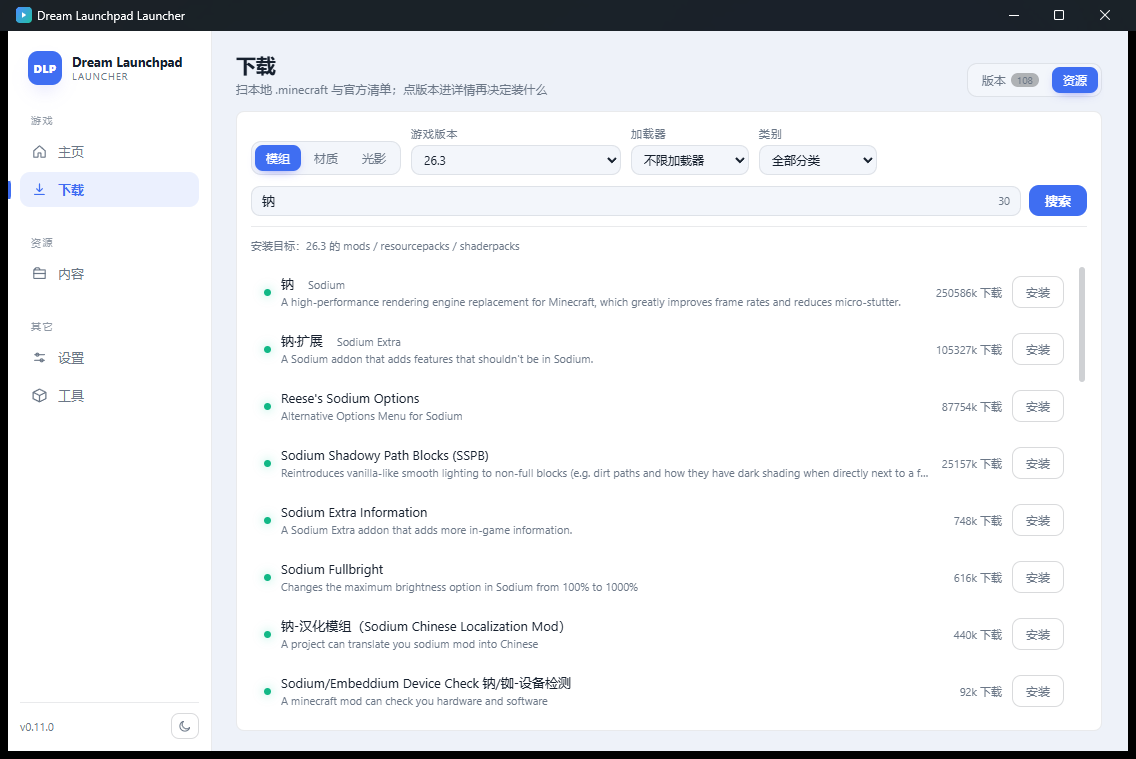
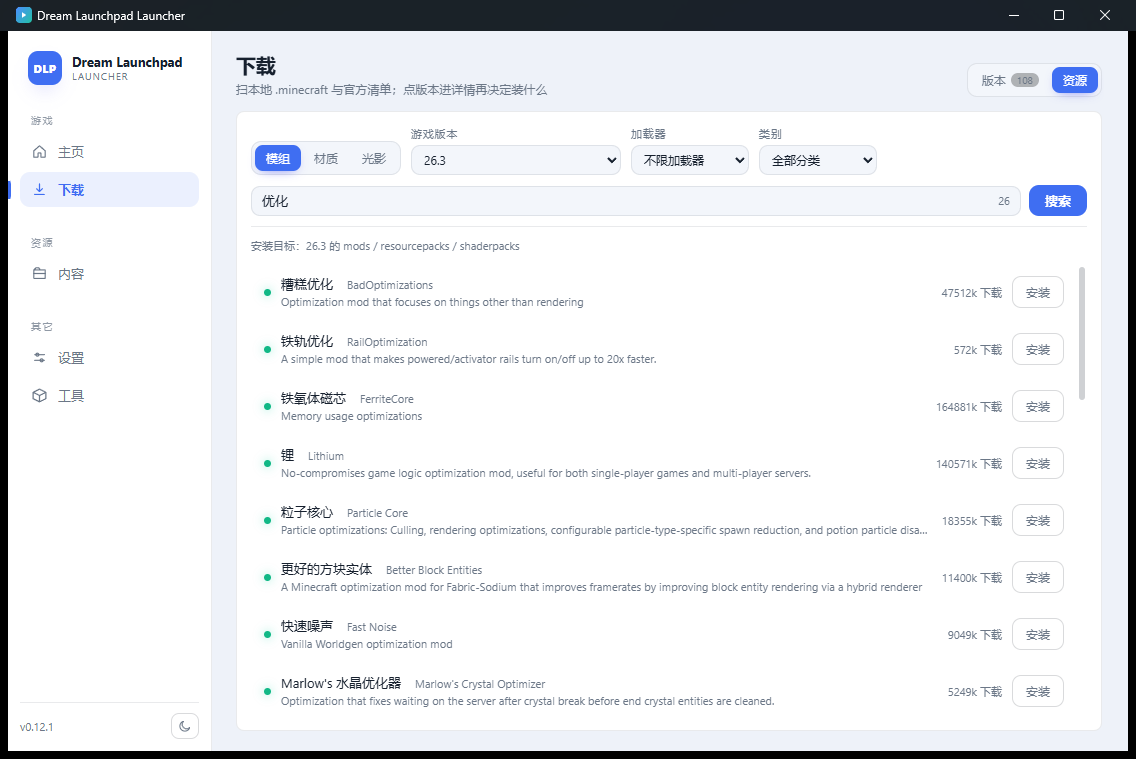
fix: 模组中文名补齐词级拼装与 CamelCase 拆词（0.12.1）

diff --git a/src/market_zh.rs b/src/market_zh.rs
@@ -89,6 +89,249 @@ const NAMES: &[(&str, &str)] = &[
     ("lightmatica", "投影辅助"),
 ];
 
+
+/// 词级术语表：给精确表里没有的项目「拼」出中文名。
+///
+/// 键是小写英文单词（或短语），值是中文；未收录的词原样保留，所以结果可能是中英混排。
+const TERMS: &[(&str, &str)] = &[
+    // 通用后缀 / 修饰
+    ("extra", "扩展"),
+    ("options", "选项"),
+    ("settings", "设置"),
+    ("config", "配置"),
+    ("configuration", "配置"),
+    ("api", "API"),
+    ("lib", "库"),
+    ("library", "库"),
+    ("core", "核心"),
+    ("utils", "工具"),
+    ("utility", "实用工具"),
+    ("tools", "工具"),
+    ("client", "客户端"),
+    ("server", "服务器"),
+    ("mod", "模组"),
+    ("mods", "模组"),
+    ("plus", "扩展"),
+    ("expanded", "扩展"),
+    ("better", "更好的"),
+    ("improved", "改进的"),
+    ("enhanced", "增强"),
+    ("advanced", "高级"),
+    ("ultimate", "终极"),
+    ("simple", "简单"),
+    ("easy", "简易"),
+    ("fast", "快速"),
+    ("quick", "快捷"),
+    ("faster", "更快"),
+    ("smooth", "平滑"),
+    ("modern", "现代"),
+    ("classic", "经典"),
+    ("legacy", "经典版"),
+    ("lite", "精简版"),
+    ("mini", "迷你"),
+    ("reloaded", "重载版"),
+    ("remastered", "重制版"),
+    ("reimagined", "重制版"),
+    ("fixed", "修复版"),
+    ("fix", "修复"),
+    ("compat", "兼容"),
+    ("compatibility", "兼容"),
+    ("integration", "联动"),
+    ("addon", "附加"),
+    ("addons", "附加"),
+    ("edition", "版"),
+    ("pack", "包"),
+    ("resource pack", "材质包"),
+    // 画面 / 性能
+    ("performance", "性能"),
+    ("optimization", "优化"),
+    ("optimizations", "优化"),
+    ("optimized", "优化"),
+    ("fps", "帧率"),
+    ("render", "渲染"),
+    ("rendering", "渲染"),
+    ("graphics", "画面"),
+    ("visual", "视觉"),
+    ("visuals", "视觉"),
+    ("visual", "视觉"),
+    ("effects", "效果"),
+    ("effect", "效果"),
+    ("lighting", "光照"),
+    ("light", "光照"),
+    ("shadow", "阴影"),
+    ("shadowy", "阴影"),
+    ("shadows", "阴影"),
+    ("reflection", "反射"),
+    ("reflections", "反射"),
+    ("bloom", "泛光"),
+    ("sky", "天空"),
+    ("clouds", "云"),
+    ("fog", "雾"),
+    ("stars", "星空"),
+    ("shader", "光影"),
+    ("shaders", "光影"),
+    ("texture", "材质"),
+    ("textures", "材质"),
+    ("animation", "动画"),
+    ("animations", "动画"),
+    ("model", "模型"),
+    ("models", "模型"),
+    ("particles", "粒子"),
+    ("entity", "实体"),
+    ("entities", "实体"),
+    ("culling", "剔除"),
+    ("occlusion", "遮挡"),
+    ("zoom", "缩放"),
+    ("screenshot", "截图"),
+    ("replay", "回放"),
+    // 玩法
+    ("world", "世界"),
+    ("worldgen", "世界生成"),
+    ("generation", "生成"),
+    ("terrain", "地形"),
+    ("biome", "生物群系"),
+    ("biomes", "生物群系"),
+    ("structure", "结构"),
+    ("structures", "结构"),
+    ("dungeon", "地牢"),
+    ("dimension", "维度"),
+    ("dimensions", "维度"),
+    ("cave", "洞穴"),
+    ("caves", "洞穴"),
+    ("ore", "矿石"),
+    ("ores", "矿石"),
+    ("mining", "挖矿"),
+    ("farming", "农业"),
+    ("food", "食物"),
+    ("cooking", "烹饪"),
+    ("animal", "动物"),
+    ("animals", "动物"),
+    ("mob", "生物"),
+    ("mobs", "生物"),
+    ("monster", "怪物"),
+    ("boss", "首领"),
+    ("weapon", "武器"),
+    ("weapons", "武器"),
+    ("armor", "护甲"),
+    ("equipment", "装备"),
+    ("enchant", "附魔"),
+    ("enchanting", "附魔"),
+    ("enchantments", "附魔"),
+    ("magic", "魔法"),
+    ("spell", "法术"),
+    ("spells", "法术"),
+    ("technology", "科技"),
+    ("tech", "科技"),
+    ("machine", "机器"),
+    ("machines", "机器"),
+    ("energy", "能源"),
+    ("power", "能量"),
+    ("pipe", "管道"),
+    ("pipes", "管道"),
+    ("fluid", "流体"),
+    ("fluids", "流体"),
+    ("storage", "存储"),
+    ("backpack", "背包"),
+    ("backpacks", "背包"),
+    ("inventory", "背包"),
+    ("quest", "任务"),
+    ("quests", "任务"),
+    ("map", "地图"),
+    ("maps", "地图"),
+    ("minimap", "小地图"),
+    ("waypoint", "路径点"),
+    ("waypoints", "路径点"),
+    ("teleport", "传送"),
+    ("spawn", "出生点"),
+    ("seed", "种子"),
+    ("chunk", "区块"),
+    ("chunks", "区块"),
+    ("block", "方块"),
+    ("blocks", "方块"),
+    ("item", "物品"),
+    ("items", "物品"),
+    ("recipe", "配方"),
+    ("recipes", "配方"),
+    ("crafting", "合成"),
+    ("ui", "界面"),
+    ("menu", "菜单"),
+    ("screen", "界面"),
+    ("hud", "HUD"),
+    ("chat", "聊天"),
+    ("sound", "声音"),
+    ("music", "音乐"),
+    ("weather", "天气"),
+    ("seasons", "季节"),
+    ("time", "时间"),
+    ("clock", "时钟"),
+    ("coordinates", "坐标"),
+    ("compass", "指南针"),
+    ("path", "路径"),
+    ("roads", "道路"),
+    ("building", "建筑"),
+    ("decoration", "装饰"),
+    ("adventure", "冒险"),
+    ("survival", "生存"),
+    ("creative", "创造"),
+    ("debug", "调试"),
+    ("device", "设备"),
+    ("check", "检测"),
+    ("information", "信息"),
+    ("info", "信息"),
+    ("details", "详情"),
+    ("status", "状态"),
+    ("notification", "通知"),
+    ("notifications", "通知"),
+    ("fullbright", "全亮"),
+    ("brightness", "亮度"),
+    ("dark", "黑暗"),
+    ("night", "夜晚"),
+    ("day", "白天"),
+    ("dynamic", "动态"),
+    ("smart", "智能"),
+    ("auto", "自动"),
+    ("custom", "自定义"),
+    ("portable", "便携"),
+    ("lightweight", "轻量"),
+    ("memory", "内存"),
+    ("thread", "线程"),
+    ("threads", "线程"),
+    ("async", "异步"),
+    ("parallel", "并行"),
+    ("tick", "刻"),
+    ("lag", "卡顿"),
+    ("stutter", "卡顿"),
+    // 常见专名（避免拼成奇怪结果）
+    ("sodium", "钠"),
+    ("embeddium", "内嵌式渲染"),
+    ("iris", "虹膜"),
+    ("oculus", "视觉"),
+    ("lithium", "锂"),
+    ("krypton", "氪"),
+    ("phosphor", "磷"),
+    ("starlight", "星光"),
+    ("fabric", "Fabric"),
+    ("forge", "Forge"),
+    ("neoforge", "NeoForge"),
+    ("quilt", "Quilt"),
+    ("optifine", "高清修复"),
+    ("optimizer", "优化器"),
+    ("particle", "粒子"),
+    ("noise", "噪声"),
+    ("crystal", "水晶"),
+    ("rail", "铁轨"),
+    ("rails", "铁轨"),
+    ("bad", "糟糕"),
+    ("blockentity", "方块实体"),
+    ("blockentities", "方块实体"),
+    ("framerate", "帧率"),
+    ("hitbox", "碰撞箱"),
+    ("hitboxes", "碰撞箱"),
+    ("lightmap", "光照贴图"),
+    ("frustum", "视锥"),
+    ("culling", "剔除"),
+];
+
 /// 中文关键词 → 英文关键词。按 key 长度从长到短匹配，避免「小地图」被「地图」抢先替换。
 const WORDS: &[(&str, &str)] = &[
     ("小地图", "minimap"),
@@ -137,15 +380,93 @@ const WORDS: &[(&str, &str)] = &[
 /// 项目的中文名；查不到返回 None（界面显示英文原名）。
 pub fn title_zh(slug: &str, title: &str) -> Option<String> {
     let slug = slug.to_ascii_lowercase();
+    // 1) 精确表
     if let Some((_, zh)) = NAMES.iter().find(|(key, _)| *key == slug) {
         return Some((*zh).to_string());
     }
-    // slug 对不上时按英文名兜底（大小写、空格差异）
     let title_lower = title.to_ascii_lowercase();
-    NAMES
+    if let Some((_, zh)) = NAMES
         .iter()
         .find(|(key, _)| title_lower.replace(' ', "-") == *key)
-        .map(|(_, zh)| (*zh).to_string())
+    {
+        return Some((*zh).to_string());
+    }
+    // 2) 词级拼装：至少命中一个词才给结果，否则保留英文
+    compose(title)
+}
+
+/// 把英文标题按术语表逐词换成中文。全都不认识时返回 None（界面继续显示英文）。
+fn compose(title: &str) -> Option<String> {
+    let mut out = String::new();
+    let mut hit = false;
+    // 括号里的缩写（SSPB）别翻，原样留住
+    for raw in title.split_whitespace() {
+        let (word, tail) = split_tail(raw);
+        // CamelCase 拆词：BadOptimizations → Bad + Optimizations
+        for piece in split_camel(word) {
+            let key = piece.to_ascii_lowercase();
+            let zh = TERMS.iter().find(|(k, _)| *k == key).map(|(_, v)| *v);
+            match zh {
+                Some(v) => {
+                    hit = true;
+                    // 前面是英文单词时补空格，避免「Reese's钠选项」这种粘连
+                    if out.chars().last().map(|c| c.is_ascii_alphanumeric()).unwrap_or(false) {
+                        out.push(' ');
+                    }
+                    out.push_str(v);
+                }
+                None => {
+                    if !out.is_empty() && !out.ends_with(' ') {
+                        out.push(' ');
+                    }
+                    out.push_str(piece);
+                }
+            }
+        }
+        out.push_str(tail);
+    }
+    if !hit {
+        return None;
+    }
+    Some(out.trim().to_string())
+}
+
+/// CamelCase 拆词：`BadOptimizations` → [`Bad`, `Optimizations`]。
+/// 全大写缩写（`JEI`、`SSPB`）保持完整，不拆。
+fn split_camel(word: &str) -> Vec<&str> {
+    let chars: Vec<(usize, char)> = word.char_indices().collect();
+    let mut cuts = Vec::new();
+    for (idx, (byte, ch)) in chars.iter().enumerate() {
+        if idx == 0 || !ch.is_ascii_uppercase() {
+            continue;
+        }
+        let prev = chars[idx - 1].1;
+        let next_is_lower = chars.get(idx + 1).map(|(_, c)| c.is_ascii_lowercase()).unwrap_or(false);
+        if prev.is_ascii_lowercase() || prev.is_ascii_digit() || (prev.is_ascii_uppercase() && next_is_lower) {
+            cuts.push(*byte);
+        }
+    }
+    if cuts.is_empty() {
+        return vec![word];
+    }
+    let mut out = Vec::new();
+    let mut start = 0;
+    for cut in cuts {
+        out.push(&word[start..cut]);
+        start = cut;
+    }
+    out.push(&word[start..]);
+    out.retain(|w| !w.is_empty());
+    out
+}
+
+/// 拆出英文单词尾部的标点 / 括号内容，例如 "Blocks(SSPB)" → ("Blocks", "(SSPB)")
+fn split_tail(raw: &str) -> (&str, &str) {
+    if let Some(pos) = raw.find(|c: char| !c.is_ascii_alphanumeric() && c != '\'') {
+        raw.split_at(pos)
+    } else {
+        (raw, "")
+    }
 }
 
 /// 中文查询词 → 英文查询词。没有中文命中时原样返回。
@@ -188,6 +509,26 @@ mod tests {
         assert_eq!(translate_query("sodium"), "sodium");
         // 查不到的中文别乱翻
         assert_eq!(translate_query("找不到的词"), "找不到的词");
+    }
+
+    #[test]
+    fn composes_titles_from_terms() {
+        // 没有精确条目时按词拼；未收录的专名保留原样
+        let zh = title_zh("sodium-shadowy-path-blocks", "Sodium Shadowy Path Blocks").unwrap();
+        assert_eq!(zh, "钠阴影路径方块");
+        let zh = title_zh("sodium-extra-information", "Sodium Extra Information").unwrap();
+        assert_eq!(zh, "钠扩展信息");
+        // CamelCase 也要能拆开
+        assert_eq!(
+            title_zh("badoptimizations", "BadOptimizations").as_deref(),
+            Some("糟糕优化")
+        );
+        assert_eq!(
+            title_zh("particlecore", "ParticleCore").as_deref(),
+            Some("粒子核心")
+        );
+        // 一个词都不认识 → 不给中文名
+        assert!(title_zh("unknown-thing", "Zorblax Frobnicator").is_none());
     }
 
     #[test]

diff --git a/CHANGELOG.md b/CHANGELOG.md
@@ -2,6 +2,18 @@
 
 本项目从 .NET 版（`main` 分支）切换为 Rust + Tauri 重写，版本号重新从 0.1.0 开始。
 
+## [0.12.1] - 2026-10-21
+
+修上一版「模组名还有一堆英文」的问题。
+
+### 修复
+
+- 中文名不再只靠 74 条精确表：新增 **词级术语表**（约 170 个词）与 **CamelCase 拆词**，
+  没有精确条目的项目也能拼出中文名 —— `BadOptimizations → 糟糕优化`、
+  `RailOptimization → 铁轨优化`、`Particle Core → 粒子核心`、`Sodium Extra Information → 钠扩展信息`
+- 英文专名（`Reese's`、`(SSPB)`）原样保留，中英之间补空格，避免「Reese's钠选项」这种粘连
+- 一个词都不认识时仍然显示英文原名，不硬造翻译
+
 ## [0.12.0] - 2026-10-21
 
 界面改成扁平化，模组搜索支持中文。
